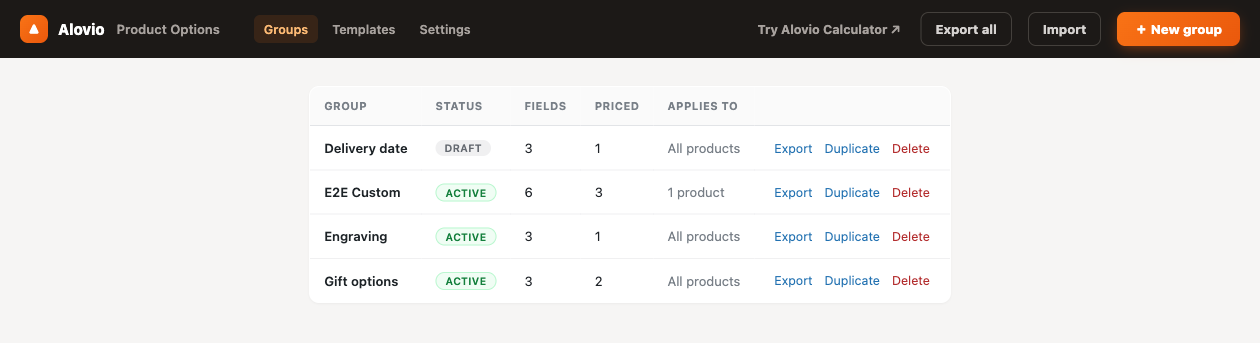
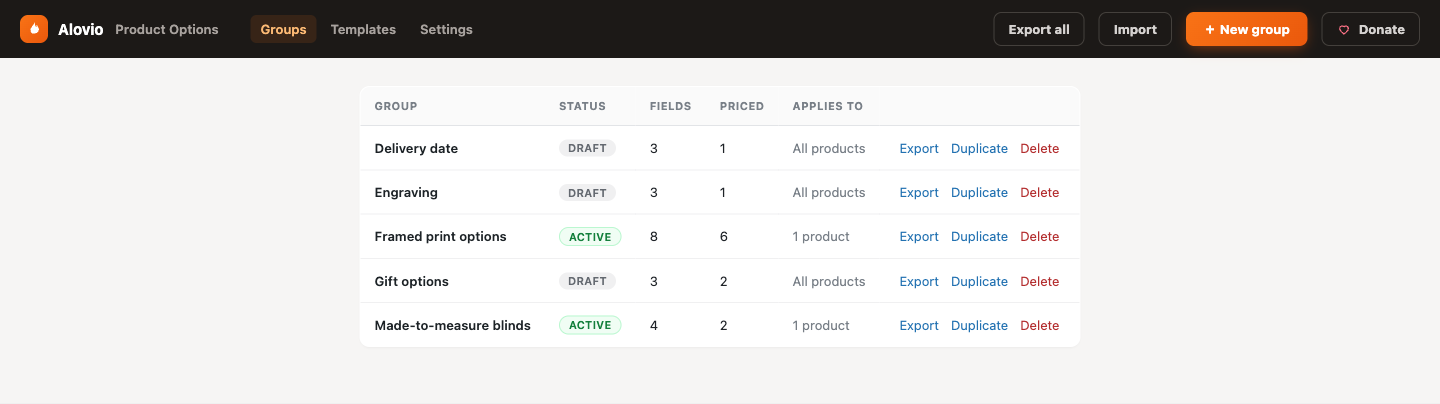
Reshoot the wp.org listing screenshots
The old set predated two releases and showed a plugin that no longer
exists: the ▲ placeholder mark instead of the flame, the emoji-and-
typographic field palette that 2.3.0 replaced with a drawn set, the
cross-promo link this release removed, and storefront text at the fixed
pixel sizes this release fixed. Screenshot 4 also advertised a product
literally named "APO QA Product".

Reshot all five against content a shop might actually have — a framed
fine-art print with per-option sizes, frame swatches, a finish button
group, per-unit extra copies and per-character engraving, plus the
made-to-order template for the formula editor. All 1440px wide now
instead of four different widths, with no wp-admin bar in the storefront
shots.

Also widens the builder's group-name field to 260px: "Made-to-measure
blinds" truncated at the old width even with 400px of header to spare.
Re-swept 1720 down to 680px content width — still one row, no overflow.

diff --git a/assets/css/builder.css b/assets/css/builder.css
@@ -106,7 +106,10 @@ body.clpo-hub-page #wpbody-content > .error { display: none; }
 .clpo-hdr .clpo-draft-pill { white-space: nowrap; }
 /* The group name is the one thing allowed to give: it is free text, so it
    truncates rather than pushing the controls off the row. */
-.clpo-hdr .clpo-title-input { flex: 0 1 auto; min-width: 90px; text-overflow: ellipsis; }
+/* Wide enough for a real group name ("Made-to-measure blinds" truncated at the
+   old 180px even with 400px of header to spare), and still the first thing to
+   give up room when the header runs out. */
+.clpo-hdr .clpo-title-input { flex: 0 1 auto; width: 260px; min-width: 90px; text-overflow: ellipsis; }
 .clpo-uic { display: block; flex: none; }
 
 .clpo-logo { display: flex; align-items: center; gap: 10px; font-weight: var(--clpo-fw-bold); font-size: var(--clpo-fs-lg); }
